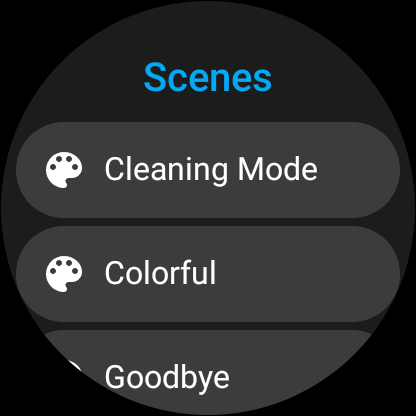
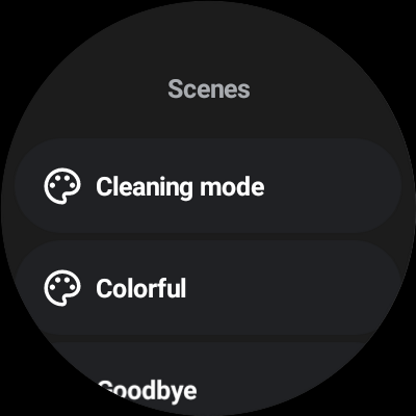
Provide Compose preview for Play Store listing screens (#2542)
* Provide Compose preview for Play Store listing screens

* Update previews for onboarding

 - Set theme correctly and show system UI
 - Add variant for dark mode

* Update Wear OS listing image

* Remove specific icon, we can use domain default

diff --git a/wear/src/main/java/io/homeassistant/companion/android/home/views/EntityListView.kt b/wear/src/main/java/io/homeassistant/companion/android/home/views/EntityListView.kt
@@ -10,6 +10,9 @@ import androidx.wear.compose.material.ChipDefaults
 import androidx.wear.compose.material.Text
 import io.homeassistant.companion.android.common.data.integration.Entity
 import io.homeassistant.companion.android.theme.WearAppTheme
+import io.homeassistant.companion.android.util.playPreviewEntityScene1
+import io.homeassistant.companion.android.util.playPreviewEntityScene2
+import io.homeassistant.companion.android.util.playPreviewEntityScene3
 import io.homeassistant.companion.android.util.previewEntity1
 import io.homeassistant.companion.android.util.previewEntity2
 import io.homeassistant.companion.android.common.R as commonR
@@ -83,6 +86,20 @@ private fun PreviewEntityListView() {
     EntityViewList(
         entityLists = mapOf(stringResource(commonR.string.lights) to listOf(previewEntity1, previewEntity2)),
         entityListsOrder = listOf(stringResource(commonR.string.lights)),
+        entityListFilter = { true },
+        onEntityClicked = { _, _ -> },
+        onEntityLongClicked = { _ -> },
+        isHapticEnabled = false,
+        isToastEnabled = false
+    )
+}
+
+@Preview
+@Composable
+private fun PreviewEntityListScenes() {
+    EntityViewList(
+        entityLists = mapOf(stringResource(commonR.string.scenes) to listOf(playPreviewEntityScene1, playPreviewEntityScene2, playPreviewEntityScene3)),
+        entityListsOrder = listOf(stringResource(commonR.string.scenes)),
         entityListFilter = { true },
         onEntityClicked = { _, _ -> },
         onEntityLongClicked = { _ -> },

diff --git a/app/src/main/java/io/homeassistant/companion/android/onboarding/welcome/WelcomeView.kt b/app/src/main/java/io/homeassistant/companion/android/onboarding/welcome/WelcomeView.kt
@@ -1,5 +1,6 @@
 package io.homeassistant.companion.android.onboarding.welcome
 
+import android.content.res.Configuration.UI_MODE_NIGHT_YES
 import androidx.compose.foundation.Image
 import androidx.compose.foundation.layout.Arrangement
 import androidx.compose.foundation.layout.Column
@@ -26,6 +27,7 @@ import androidx.compose.ui.text.withStyle
 import androidx.compose.ui.tooling.preview.Preview
 import androidx.compose.ui.unit.dp
 import androidx.compose.ui.unit.sp
+import com.google.android.material.composethemeadapter.MdcTheme
 import io.homeassistant.companion.android.R
 import io.homeassistant.companion.android.common.R as commonR
 
@@ -98,7 +100,10 @@ fun WelcomeView(
 }
 
 @Composable
-@Preview
+@Preview(showSystemUi = true)
+@Preview(showSystemUi = true, uiMode = UI_MODE_NIGHT_YES)
 private fun PreviewWelcome() {
-    WelcomeView(onContinue = {})
+    MdcTheme {
+        WelcomeView(onContinue = {})
+    }
 }

diff --git a/wear/src/main/java/io/homeassistant/companion/android/util/PreviewData.kt b/wear/src/main/java/io/homeassistant/companion/android/util/PreviewData.kt
@@ -24,3 +24,7 @@ val previewEntityList = mapOf(
 val previewFavoritesList = listOf("light.first", "scene.first")
 
 val simplifiedEntity = SimplifiedEntity(previewEntity1.entityId, attributes["friendly_name"].toString(), attributes["icon"].toString())
+
+val playPreviewEntityScene1 = Entity("scene.first", "on", mapOf("friendly_name" to "Cleaning mode"), calendar, calendar, mapOf())
+val playPreviewEntityScene2 = Entity("scene.second", "on", mapOf("friendly_name" to "Colorful"), calendar, calendar, mapOf())
+val playPreviewEntityScene3 = Entity("scene.third", "on", mapOf("friendly_name" to "Goodbye"), calendar, calendar, mapOf())
